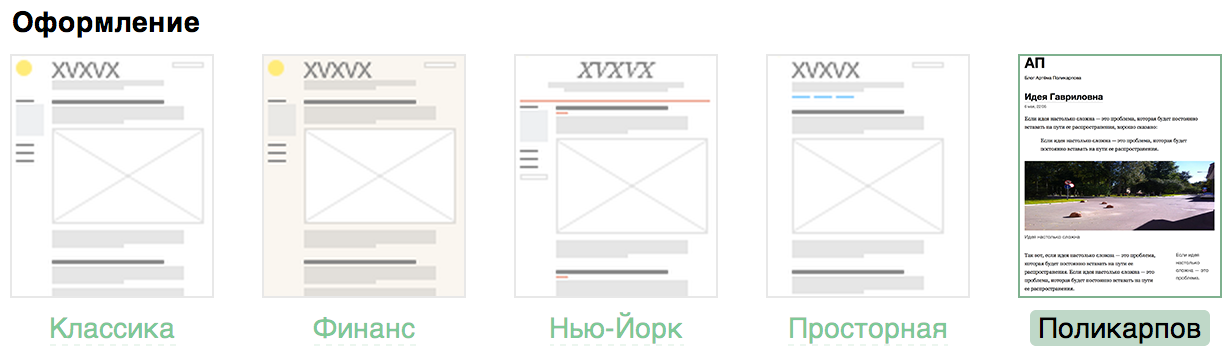
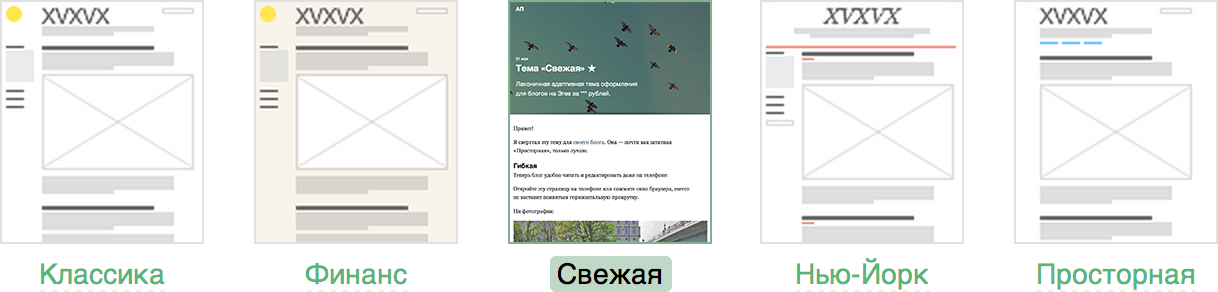
Обновил ридми

diff --git a/index.html b/index.html
@@ -8,7 +8,7 @@
 <link rel="stylesheet" type="text/css" href="system/theme/styles/main.css" />
 <link rel="stylesheet" type="text/css" href="system/library/social-likes/social-likes.css" />
 <link rel="stylesheet" type="text/css" href="system/library/fotorama/fotorama.css" />
-<link rel="stylesheet" type="text/css" href="styles/theme-polikarpov.css" />
+<link rel="stylesheet" type="text/css" href="styles/fresh.css" />
 <link rel="stylesheet" type="text/css" href="system/library/highlight/highlight.css" />
 
 <meta name="description" content="Лаконичная адаптивная тема оформления для блогов на Эгее за *** рублей" />
@@ -26,7 +26,7 @@
 <script type="text/javascript" src="system/theme/js/main.js"></script>
 <script type="text/javascript" src="system/library/social-likes/social-likes.js"></script>
 <script type="text/javascript" src="system/library/fotorama/fotorama.js"></script>
-<script type="text/javascript" src="js/theme-polikarpov.js"></script>
+<script type="text/javascript" src="js/fresh.js"></script>
 <script type="text/javascript" src="system/library/highlight/highlight.js"></script>
 
 <script type="text/javascript" src="system/analytics.js"></script>
@@ -116,23 +116,23 @@ color: #fff; background-color: #0060a0;
 }
 </style>
 <div class="download-box">
-<a class="button download-button js-analytics-click" data-action="download" href="https://github.com/artpolikarpov/theme-polikarpov/archive/master.zip">Cкачать тему</a><br>
+<a class="button download-button js-analytics-click" data-action="download" href="https://github.com/artpolikarpov/fresh/archive/master.zip">Скачать тему</a><br>
 <small>Для Эгеи 2.4+<br>
 Бесплатно для тестирования и разработки<br>
-<a href="#asterisks" class="e2-pseudolink black-link js-analytics-click" data-action="anchor">Для сайтов в интернете — *** рублей</a></small>
+<a href="#asterisks" class="e2-pseudolink black-link js-analytics-click" data-action="anchor">Для сайтов в интернете — *** рублей</a></small>
 </div>
 
 <hr>
 
 <h2>Гибкая</h2>
-<p>Теперь блог удобно читать и редактировать даже на телефоне:</p>
+<p style="position: relative; z-index: 2;">Теперь блог удобно читать и редактировать даже на телефоне:</p>
 <div class="e2-text-picture">
-<img src="pictures/theme-polikarpov@2x.png" width="792" height="744" alt="" />
+<img src="pictures/theme-polikarpov@2x.png" width="792" height="744" style="margin: 0 0 -16px -14px;" alt="" />
 </div>
 <p>Откройте эту страницу на телефоне или сожмите окно браузера, ничто не заставит появиться горизонтальную прокрутку.</p>
 <p>Ни фотография:</p>
 <div class="e2-text-picture">
-<img src="pictures/tumblr_n4cm4hq4Vb1st5lhmo1_1280.jpg" width="1000" height="563" alt="" />
+<img src="pictures/tumblr_n5waxesawa1st5lhmo1_1280.jpg" width="1000" height="665" alt="" />
 <!--<p>Адаптивное изображение, вылеченное <a href="https://github.com/artpolikarpov/upyachka.js#upyachkajs" class="js-analytics-click" data-action="outbound">от Упячки</a></p>-->
 </div>
 <p>Ни видео:</p>
@@ -222,7 +222,7 @@ and a newline to the screen:
 <h2>С большой картинкой сверху</h2>
 <p>Чтобы добавить обложку заметке, как на этой странице, достаточно добавить <tt>cover</tt> после имени картинки:</p>
 <pre class="e2-text-code"><code>oblozhka.jpg cover</code></pre>
-<p>Скрипт спрячет её в ленте, а на странице заметки покажет вверху под крупным заголовком. Параллакс при прокрутке — приятный бонус.</p>
+<p>Скрипт спрячет её в ленте, а на странице заметки покажет вверху под крупным заголовком. Параллакс при прокрутке — приятный бонус.</p>
 
 <p>Есть несколько стилей текста над обложкой:</p>
 <pre class="e2-text-code"><code>&lt;!-- Белый текст на чёрной подложке -->
@@ -247,25 +247,25 @@ oblozhka.jpg cover black transparent</code></pre>
 <hr>
 
 <h2>Установка и использование</h2>
-<p>Распакуйте архив с темой в папку /<i>themes</i>/, чтобы получилась такая структура:</p>
+<p style="position: relative; z-index: 2;">Распакуйте архив с темой в папку /<i>themes</i>/, чтобы получилась такая структура:</p>
 <div class="e2-text-picture">
-<img src="pictures/files@2x.png" width="329" height="234" alt="" />
+<img src="pictures/files@2x.png" width="455" height="460" style="margin-left: -48px; margin-top: -27px; margin-bottom: -109px;" alt="" />
 </div>
 <p>И включите новое оформление в настройке:</p>
 <div class="e2-text-picture">
-<img src="pictures/settings@2x.png" width="616" height="178" alt="" />
+<img src="pictures/settings@2x.png" width="609" height="146" alt="" />
 </div>
 <p>Наслаждайтесь.</p>
 
-<hr><br>
+<hr>
 <div class="download-box">
-<a class="button download-button js-analytics-click" data-action="download" href="https://github.com/artpolikarpov/theme-polikarpov/archive/master.zip">Cкачать тему</a><br>
+<a class="button download-button js-analytics-click" data-action="download" href="https://github.com/artpolikarpov/fresh/archive/master.zip">Скачать тему</a><br>
 <small>Для Эгеи 2.4+<br>
 Бесплатно для тестирования и разработки</small>
 </div>
-<h2 id="asterisks"><br>Для сайтов в интернете — *** рублей</h2>
+<h2 id="asterisks"><br>Для сайтов в интернете — *** рублей</h2>
 <p>Тема «Свежая» — платный продукт. Убедитесь, что тема полностью вас устраивает: свободно скачивайте и используйте её в разработке на закрытых тестовых сайтах.</p>
-<p>Перед использованием темы в интернете получите моё разрешение, пополнив один из кошельков на *** рублей:</p>
+<p>Перед использованием темы в интернете и для создания собственной темы на основе «Свежей» получите моё разрешение, пополнив один из кошельков на *** рублей:</p>
 <ul>
 <li>Яндекс.Деньги: <a href="https://money.yandex.ru/direct-payment.xml?receiver=4100139676157" class="js-analytics-click" data-action="outbound">4100139676157</a></li>
 <li>Пейпал: <a href="https://www.paypal.com/cgi-bin/webscr?cmd=_s-xclick&amp;hosted_button_id=7M9KK5AQPG6CC" class="js-analytics-click" data-action="outbound">fotoramajs@gmail.com</a></li>
@@ -351,7 +351,7 @@ oblozhka.jpg cover black transparent</code></pre>
       </div>
 
       <div class="e2-comment-content e2-text">
-      <p>Исходный код на Гитхабе: <a href="https://github.com/artpolikarpov/theme-polikarpov/" class="js-analytics-click" data-action="outbound">https://github.com/artpolikarpov/theme-polikarpov/</a></p>
+      <p>Исходный код на Гитхабе: <a href="https://github.com/artpolikarpov/fresh/" class="js-analytics-click" data-action="outbound">https://github.com/artpolikarpov/fresh/</a></p>
 
             </div>
 
@@ -524,19 +524,6 @@ oblozhka.jpg cover black transparent</code></pre>
   method="post"
   accept-charset="utf-8"
 >
-
-<div class="e2-search">
-
-  <label class="e2-search-input">
-    <input class="text" type="search" name="query" id="query"
-      placeholder="Поиск заметок и тегов"
-      title="Не работает на демостранице"
-      value=""
-      disabled
-    />
-  </label>
-
-</div>
 
 </form>
 
